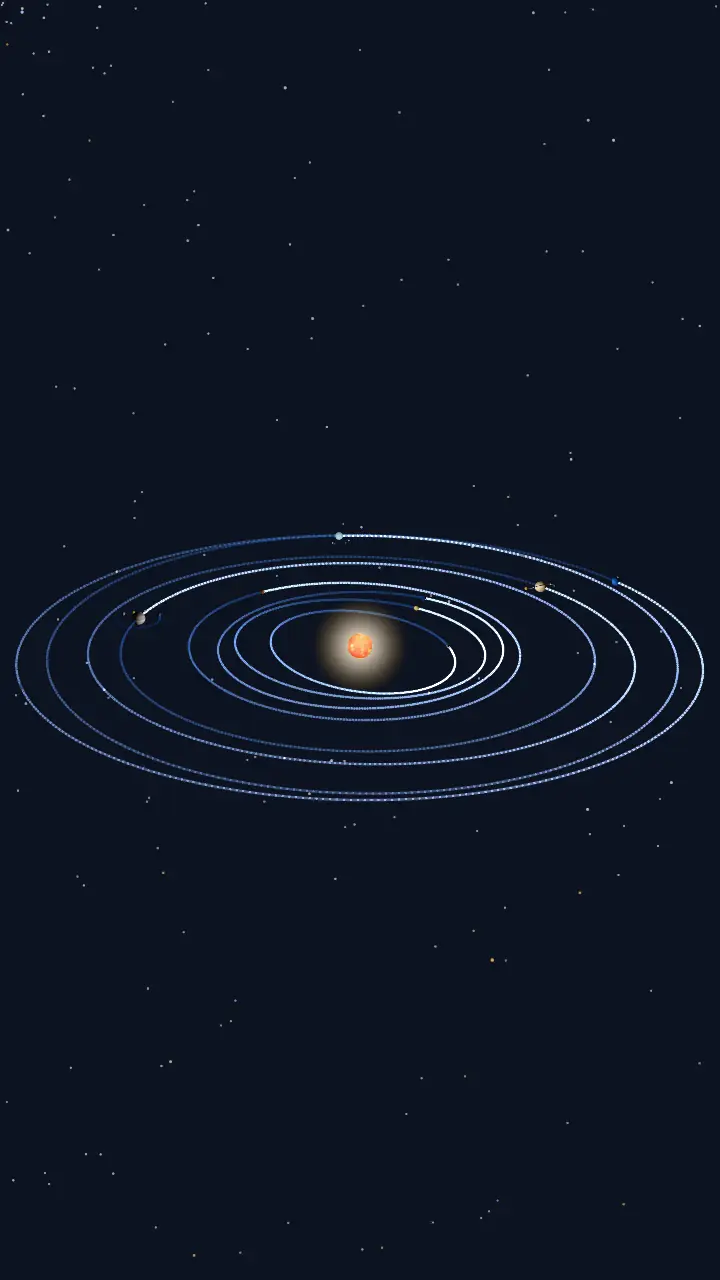
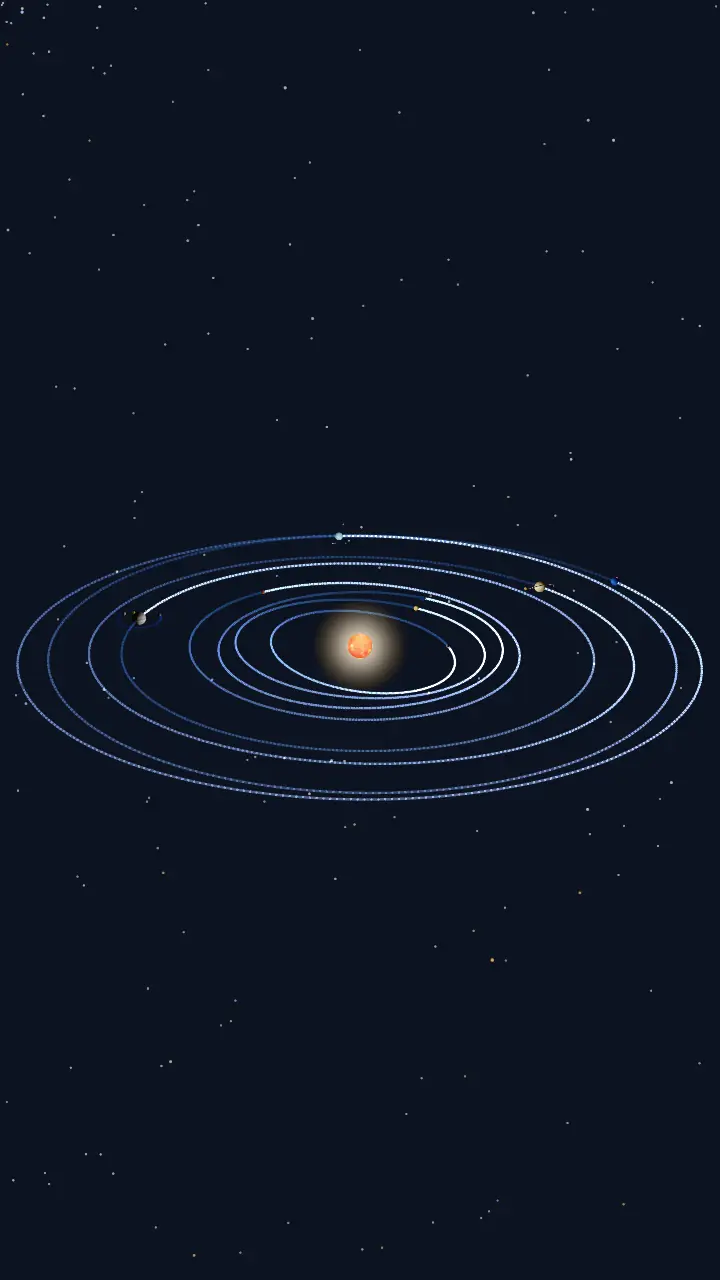
fix: «tiempo real» sigue al reloj de pared y la vista general encuadra toda la órbita de Neptuno
- Revisión de código, hallazgo 6: a las velocidades lentas (hasta 60 s/s), el reloj avanza con el
  tiempo real transcurrido, sin el tope de 400 ms y también con la pestaña oculta o sin contexto;
  al pausar o cambiar de velocidad se pone al día. A las rápidas, como antes (sin saltos).
- Sugerencia 11 (la 18 de la fase 2): la distancia de la vista general sale de una fórmula exacta
  con la perspectiva (el lado cercano de la órbita se ve más grande); el comentario ya es cierto.
  Pósters del sistema solar regenerados.

diff --git a/src/app/scene/engine.ts b/src/app/scene/engine.ts
@@ -93,8 +93,30 @@ export function framingDistanceRadii(fill: number, verticalFovDeg: number, aspec
   const halfMin = Math.min(halfVertical, halfHorizontal);
   return 1 / Math.sin(Math.atan(fill * Math.tan(halfMin)));
 }
+/**
+ * Distancia mínima de la cámara para que una circunferencia de radio `radius` en el plano de la
+ * eclíptica, centrada en el punto al que mira, quepa entera en una vista con esas tangentes de los
+ * semiángulos, vista desde esa elevación (rad). Con la perspectiva, el lado cercano se ve más
+ * grande que el lejano: el ancho máximo proyectado es R/√(d² − R²·cos²e) (en sen θ = R·cos e/d) y
+ * el borde de abajo, el del lado cercano, R·sen e/(d − R·cos e).
+ */
+export function circleFitDistance(
+  radius: number,
+  elevation: number,
+  tanHalfHorizontal: number,
+  tanHalfVertical: number,
+): number {
+  const cos = Math.cos(elevation);
+  const sin = Math.sin(elevation);
+  const width = radius * Math.sqrt(1 / tanHalfHorizontal ** 2 + cos * cos);
+  const depth = radius * (cos + sin / tanHalfVertical);
+  return Math.max(width, depth);
+}
+
 /** Elevación de la vista general (rad): una vista oblicua de la eclíptica. */
 const OVERVIEW_ELEVATION = 0.42;
+/** Margen de la vista general alrededor de la órbita de Neptuno. */
+const OVERVIEW_MARGIN = 1.05;
 const OVERVIEW_AZIMUTH = -0.55;
 const OVERVIEW_ANGLES = { azimuth: OVERVIEW_AZIMUTH, elevation: OVERVIEW_ELEVATION } as const;
 /** Exposición por vista (D21). */
@@ -102,8 +124,9 @@ const EXPOSURE: Readonly<Record<ExplorerView, number>> = { system: 1, earth: 1, 
 /** La cámara no entra en el cuerpo enfocado. */
 const MIN_DISTANCE_RADII = 1.12;
 /**
- * Paso máximo de tiempo entre frames: más que el intervalo del render a 4 Hz, para que el reloj no
- * se retrase; los saltos de una pestaña oculta los evita `visibilitychange`.
+ * Paso máximo de tiempo entre frames a las velocidades rápidas: un tirón no da un salto (a las
+ * lentas, el reloj sigue al de pared: `clockStep`). Los saltos de una pestaña oculta los evita
+ * `visibilitychange`.
  */
 const MAX_FRAME_DT_MS = 400;
 
@@ -235,6 +258,8 @@ export class SceneEngine implements SceneEngineApi {
   /** El frame pedido es uno del render lento (4 Hz): una orden con prisa lo adelanta. */
   private handleDelayed = false;
   private lastFrameMs: number | null = null;
+  /** Hasta qué instante del reloj de pared (`deps.now`) ha avanzado ya el reloj de la simulación. */
+  private wallMs: number | null = null;
   private lastTimeEventMs = -Infinity;
   private lastStatsMs = -Infinity;
   private frameTimes: number[] = [];
@@ -381,14 +406,17 @@ export class SceneEngine implements SceneEngineApi {
   setTime(time: Date): void {
     if (this.disposed) return;
     this.clock.setTime(time);
+    this.wallMs = this.deps.now();
     this.emitTime(true);
     this.invalidate();
   }
 
   setPlaying(playing: boolean): void {
     if (this.disposed) return;
+    this.catchUp();
     const limit = this.clock.setPlaying(playing);
     if (limit) this.emit('limitReached', { limit });
+    this.wallMs = this.deps.now();
     this.lastFrameMs = null;
     this.emitTime(true);
     this.invalidate();
@@ -396,7 +424,9 @@ export class SceneEngine implements SceneEngineApi {
 
   setSpeed(simSecondsPerSecond: number): void {
     if (this.disposed) return;
+    this.catchUp();
     this.clock.setSpeed(simSecondsPerSecond);
+    this.wallMs = this.deps.now();
     this.emitTime(true);
   }
 
@@ -620,7 +650,7 @@ export class SceneEngine implements SceneEngineApi {
     const continuous = this.lastFrameMs !== null && dt < SLOW_FRAME_MS * 0.8;
     this.lastFrameMs = timeMs;
     if (continuous) this.frameIntervalMs = 0.8 * this.frameIntervalMs + 0.2 * dt;
-    const limit = this.clock.advance(dt);
+    const limit = this.clock.advance(this.clockStep(dt));
     if (limit) {
       this.emit('limitReached', { limit });
       this.emitTime(true);
@@ -647,6 +677,29 @@ export class SceneEngine implements SceneEngineApi {
     } else {
       this.lastFrameMs = null;
     }
+  }
+
+  /**
+   * Cuánto tiempo real avanza el reloj en este frame. A las velocidades lentas (hasta `SLOW_SPEED`),
+   * el que ha pasado de verdad desde el último avance, sin tope y también con la pestaña oculta o
+   * sin contexto: «tiempo real» no se retrasa del reloj. A las rápidas, el del frame, con su tope:
+   * un tirón o una pestaña oculta no dan un salto de meses (el tiempo se detiene mientras tanto).
+   */
+  private clockStep(frameDtMs: number): number {
+    const now = this.deps.now();
+    const elapsed = this.wallMs === null ? frameDtMs : now - this.wallMs;
+    this.wallMs = now;
+    return Math.abs(this.clock.speed) <= SLOW_SPEED ? elapsed : frameDtMs;
+  }
+
+  /** Antes de pausar o de cambiar de velocidad, lo que ha pasado desde el último frame (lentas). */
+  private catchUp(): void {
+    if (!this.clock.playing || this.wallMs === null) return;
+    if (Math.abs(this.clock.speed) > SLOW_SPEED) return;
+    const now = this.deps.now();
+    const limit = this.clock.advance(now - this.wallMs);
+    this.wallMs = now;
+    if (limit) this.emit('limitReached', { limit });
   }
 
   /**
@@ -986,15 +1039,19 @@ export class SceneEngine implements SceneEngineApi {
   }
 
   /**
-   * Distancia a la que la órbita de Neptuno cabe en la parte visible (en la escala ilustrativa y la
-   * real).
+   * Distancia a la que la órbita de Neptuno cabe entera en la parte visible, con su margen y con la
+   * perspectiva de la vista oblicua (en la escala ilustrativa y la real, que conserva su extensión).
    */
   private overviewDistance(): number {
     const extent = illustrativeDistance(NEPTUNE_SEMI_MAJOR_AXIS_AU * 1.012);
-    const vertical = (this.projection.visibleFovDeg * Math.PI) / 360;
-    const horizontal = Math.atan(Math.tan(vertical) * this.projection.visibleAspect);
-    // Con la vista oblicua, la órbita se ve como una elipse: el ancho es lo que manda.
-    return (extent / Math.tan(Math.min(horizontal, vertical * 1.9))) * 1.06;
+    const tanVertical = Math.tan((this.projection.visibleFovDeg * Math.PI) / 360);
+    const tanHorizontal = tanVertical * this.projection.visibleAspect;
+    return circleFitDistance(
+      extent,
+      OVERVIEW_ELEVATION,
+      tanHorizontal / OVERVIEW_MARGIN,
+      tanVertical / OVERVIEW_MARGIN,
+    );
   }
 
   private frameSpec(focus: number | null) {

diff --git a/src/app/scene/engine.spec.ts b/src/app/scene/engine.spec.ts
@@ -7,6 +7,7 @@ import {
   FRAMING_FILL,
   FrameScheduler,
   SceneEngine,
+  circleFitDistance,
   framingDistanceRadii,
 } from './engine';
 import { hasDepthChunks } from './materials/depth';
@@ -659,6 +660,61 @@ describe('SceneEngine: interfaz de la fase 3 (encuadre, vuelos, teclado, estelas
     expect((h.engine.time.getTime() - start) / 1000).toBeGreaterThan(1.7);
     h.engine.setPlaying(false);
     h.engine.dispose();
+  });
+
+  it('a tiempo real el reloj sigue al de pared: también con la pestaña oculta y al pausar', async () => {
+    const h = await createHarness();
+    settle(h);
+    h.engine.setSpeed(1);
+    h.engine.setPlaying(true);
+    const start = h.engine.time.getTime();
+    const wall = h.clock.now;
+    h.frames(1000);
+    h.page.hidden = true;
+    h.page.notify();
+    h.clock.now += 10_000; // diez segundos con la pestaña oculta
+    h.page.hidden = false;
+    h.page.notify();
+    h.frames(600);
+    // Lo simulado es lo que ha pasado de verdad, salvo lo que va desde el último frame (4 Hz).
+    const behind = h.clock.now - wall - (h.engine.time.getTime() - start);
+    expect(behind).toBeGreaterThanOrEqual(-1);
+    expect(behind).toBeLessThan(300);
+    // Al pausar, se pone al día con lo que ha pasado desde ese frame.
+    h.clock.now += 200;
+    h.engine.setPlaying(false);
+    expect(Math.abs(h.clock.now - wall - (h.engine.time.getTime() - start))).toBeLessThanOrEqual(1);
+    // Hacia atrás, igual.
+    h.engine.setSpeed(-1);
+    h.engine.setPlaying(true);
+    const back = h.engine.time.getTime();
+    h.clock.now += 5000;
+    h.engine.setPlaying(false);
+    expect(back - h.engine.time.getTime()).toBeCloseTo(5000, -1);
+    h.engine.dispose();
+  });
+
+  it('la vista general encuadra la órbita entera, también el lado cercano (perspectiva)', () => {
+    const radius = 100;
+    for (const [elevation, tanH, tanV] of [
+      [0.42, 0.55, 0.33], // escritorio: manda el lado cercano, abajo
+      [0.42, 0.2, 0.45], // móvil vertical: manda el ancho
+      [0.9, 0.4, 0.4],
+    ] as const) {
+      const d = circleFitDistance(radius, elevation, tanH, tanV);
+      let x = 0;
+      let y = 0;
+      for (let k = 0; k < 3600; k++) {
+        const theta = (k / 3600) * 2 * Math.PI;
+        const depth = d - radius * Math.cos(elevation) * Math.sin(theta);
+        x = Math.max(x, Math.abs(radius * Math.cos(theta)) / depth);
+        y = Math.max(y, Math.abs(radius * Math.sin(elevation) * Math.sin(theta)) / depth);
+      }
+      expect(x).toBeLessThanOrEqual(tanH * (1 + 1e-9));
+      expect(y).toBeLessThanOrEqual(tanV * (1 + 1e-9));
+      // Ajustada: por un lado toca el borde.
+      expect(Math.max(x / tanH, y / tanV)).toBeGreaterThan(0.9999);
+    }
   });
 
   it('movimiento coherente: Mercurio da ~4 vueltas por cada vuelta de la Tierra, también hacia atrás', async () => {
